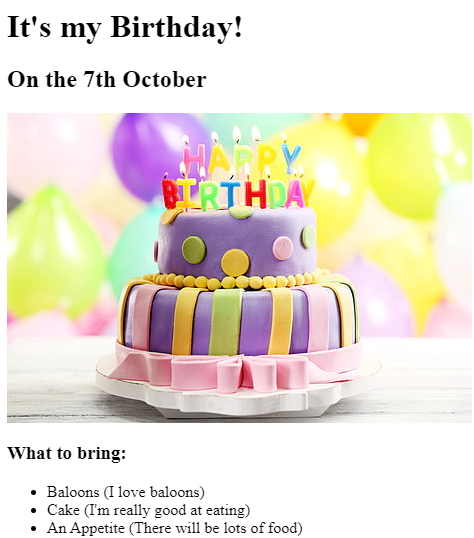
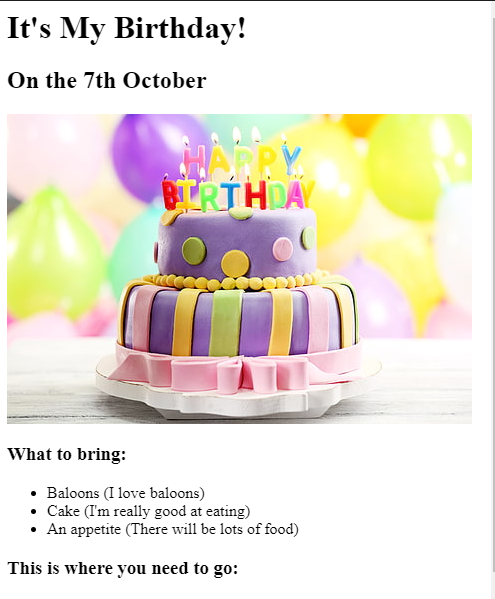
Add files via upload

diff --git a/index.html b/index.html
@@ -1,20 +1,29 @@
-<!DOCTYPE html>
-<html lang="en">
-
-<head>
-    <meta charset="UTF-8">
-    <title>Indrajeet's Portfolio</title>
-</head>
-<body>
-    <h1>Indrajeet Daunde's Portfolio</h1>
-    <h2>I'm a Web Developer</h2>
-    <hr />
-    <h3><a href="./public/movie-ranking.html">Movie Ranking Project</a></h3>
-    <img src="./assets/images/movie-ranking.png" alt="Reviews of Best 3 movies according to Indrajeet" height="200"/>
-    <h3><a href="./public/birthday-invite.html">Birthday Invite Project</a></h3>
-    <img src="./assets/images/birthday-invite.png" alt="Birthday Invite Website" height="200"/>
-    <hr />
-    <a href="./public/about.html">About Me</a>
-    <a href="./public/contact.html">Conact Me</a>
-</body>
-</html>
+<!-- TODO 1: Create the HTML Boilerplate -->
+<!-- TODO 2: Add Your previous projects' HTML into the public folder -->    
+<!-- TODO 3: Take screenshots of your project previews and add the images to the images folder -->
+<!-- TODO 4: Add titles/subtitles etc. -->
+<!-- TODO 5: Add a link to the project pages -->
+<!-- TODO 6: Add images to show the project previews
+HINT for TODO 6: You can use the height attribute set to 200 to make the image smaller:
+https://developer.mozilla.org/en-US/docs/Web/HTML/Element/img#attr-height -->
+<!-- TODO 7: Add the Contact Me and About Me page links -->
+ <!DOCTYPE html>
+ <html lang="en">
+    <head>
+        <meta charset="UTF-8">
+        <meta name="viewport" content="width=device-width, initial-scale=1.0">
+        <title>Portfolio</title>
+    </head>
+    <body>
+        <h1>Indrajeet Daunde's Portfolio</h1>
+            <h2>I'm a Web Developer</h2>
+            <hr />
+                <h3><a href="./public/movie-ranking.html" target="_blank">Movie Ranking Project</a></h3>
+                <img src="./assets/images/movie-ranking.png" alt="movie-ranking-project-screenshot" height="200">
+                <h3><a href="./public/birthday-invite.html" target="_blank">Birthday Invite Project</a></h3>
+                <img src="./assets/images/birthday-invite.png" alt="birthday-invite-project-screenshot" height="200">
+                <hr />
+                <a href="./public/about.html" target="_blank">About Me</a>
+                <a href="./public/contact.html" target="_blank">Contact Me</a>    
+    </body>
+ </html>

diff --git a/public/movie-ranking.html b/public/movie-ranking.html
@@ -1,10 +1,13 @@
-<!-- Write your code below -->
+<!--Write Your Code below-->
 <h1>The Best Movies According to Indrajeet</h1>
-<h2>My top 3 movies of all-time.</h2>
-<hr />
-<h3>Batman : The Dark Night</h3>
-<p>Batman the superhero saving his Gotham city from the criminals comes across the very dangerous criminal named Joker who makes Batmans life difficult.</p>
-<h3>Swades</h3>
-<p>A famous bollywood movie. An Indian NASA scientist returns to India to take his old age Amma to USA where he realises how many problems are there in Indian villages and decided to stay back in India and try to bring changes in the village.</p>
-<h3>3 Idiots</h3>
-<p>Another famous bollywood movie which shows 3 engineering students college days life. Rancho is the brilliant students make his roommates realise their real dreams in life.</p>
+    <h2>My top 3 movies of all time.</h2>
+    <hr />
+        <h3>3 Idiots</h3>
+            <p>Gener : Dramedy, Bollywood movie directed by famous directed rajkumar Hirani Starring Amir Khan, Kareena Kapoor, R Madhavan, Sharman Joshi and Boman Irani<br /> 
+            Story of 3 friends who used to be  roommates during graduation.<br />
+            </p>
+
+        <h3>Batman : Dark Night</h3>
+            <p>Masterpiece by christian Nolan. This movie is known for villain character Joker who won the Oscar award for his exceptional performan in the movie</p>
+        <h3>Avegngers : The End Game</h3>
+            <p>Final movie from the Marvel series where all superheroes wants to reverse the things done by Thanos by finding the stones by going back into the past and kill the Thanos</p>

diff --git a/public/birthday-invite.html b/public/birthday-invite.html
@@ -1,15 +1,20 @@
-<h1>It's my Birthday!</h1>
-<h2>On the 7th October</h2>
+<!-- 
+Example image URL 
+https://raw.githubusercontent.com/appbrewery/webdev/main/birthday-cake3.4.jpeg
 
-<!-- Example image URL -->
+Example Google Maps Link
+https://www.google.com/maps/@35.7040744,139.5577317,3a,75y,289.6h,87.01t,0.72r/data=!3m6!1e1!3m4!1sgT28ssf0BB2LxZ63JNcL1w!2e0!7i13312!8i6656 
+-->
+
+<h1>It's My Birthday!</h1>
+<h2>On the 7th October</h2>
 <img src="https://raw.githubusercontent.com/appbrewery/webdev/main/birthday-cake3.4.jpeg" alt="Birthday Cake" />
 <h3>What to bring:</h3>
 <ul>
     <li>Baloons (I love baloons)</li>
     <li>Cake (I'm really good at eating)</li>
-    <li>An Appetite (There will be lots of food)</li>
+    <li>An appetite (There will be lots of food)</li>
 </ul>
 
 <h3>This is where you need to go:</h3>
-<!-- Example Google Maps Link -->
-<a href="https://www.google.com/maps/@35.7040744,139.5577317,3a,75y,289.6h,87.01t,0.72r/data=!3m6!1e1!3m4!1sgT28ssf0BB2LxZ63JNcL1w!2e0!7i13312!8i6656">Google map link</a>
+<a href="https://www.google.com/maps/@35.7040744,139.5577317,3a,75y,289.6h,87.01t,0.72r/data=!3m6!1e1!3m4!1sgT28ssf0BB2LxZ63JNcL1w!2e0!7i13312!8i6656" target="_blank">Google map link</a>

diff --git a/public/contact.html b/public/contact.html
@@ -1,11 +1,9 @@
 <h1>Contact Me</h1>
-<p>Tel : +91 7276274942</p>
-<p>Email : iindra24@gmail.com</p>
+<p>Tel: +91 72762 74942</p>
+<p>Email: iindra24@gmail.com</p>
 <p>Address:</p>
 <p>
-    306, Maitri Darshan<br />
-    Near Municipality School<br/>
-    Loiswadi<br />
-    Thane West<br />
-    400604<br />
+  304, Maitri Darshan,<br />
+  Sainath Nagar, Louiswadi, Near Municipality School<br />
+  Thane 400604<br />
 </p>
